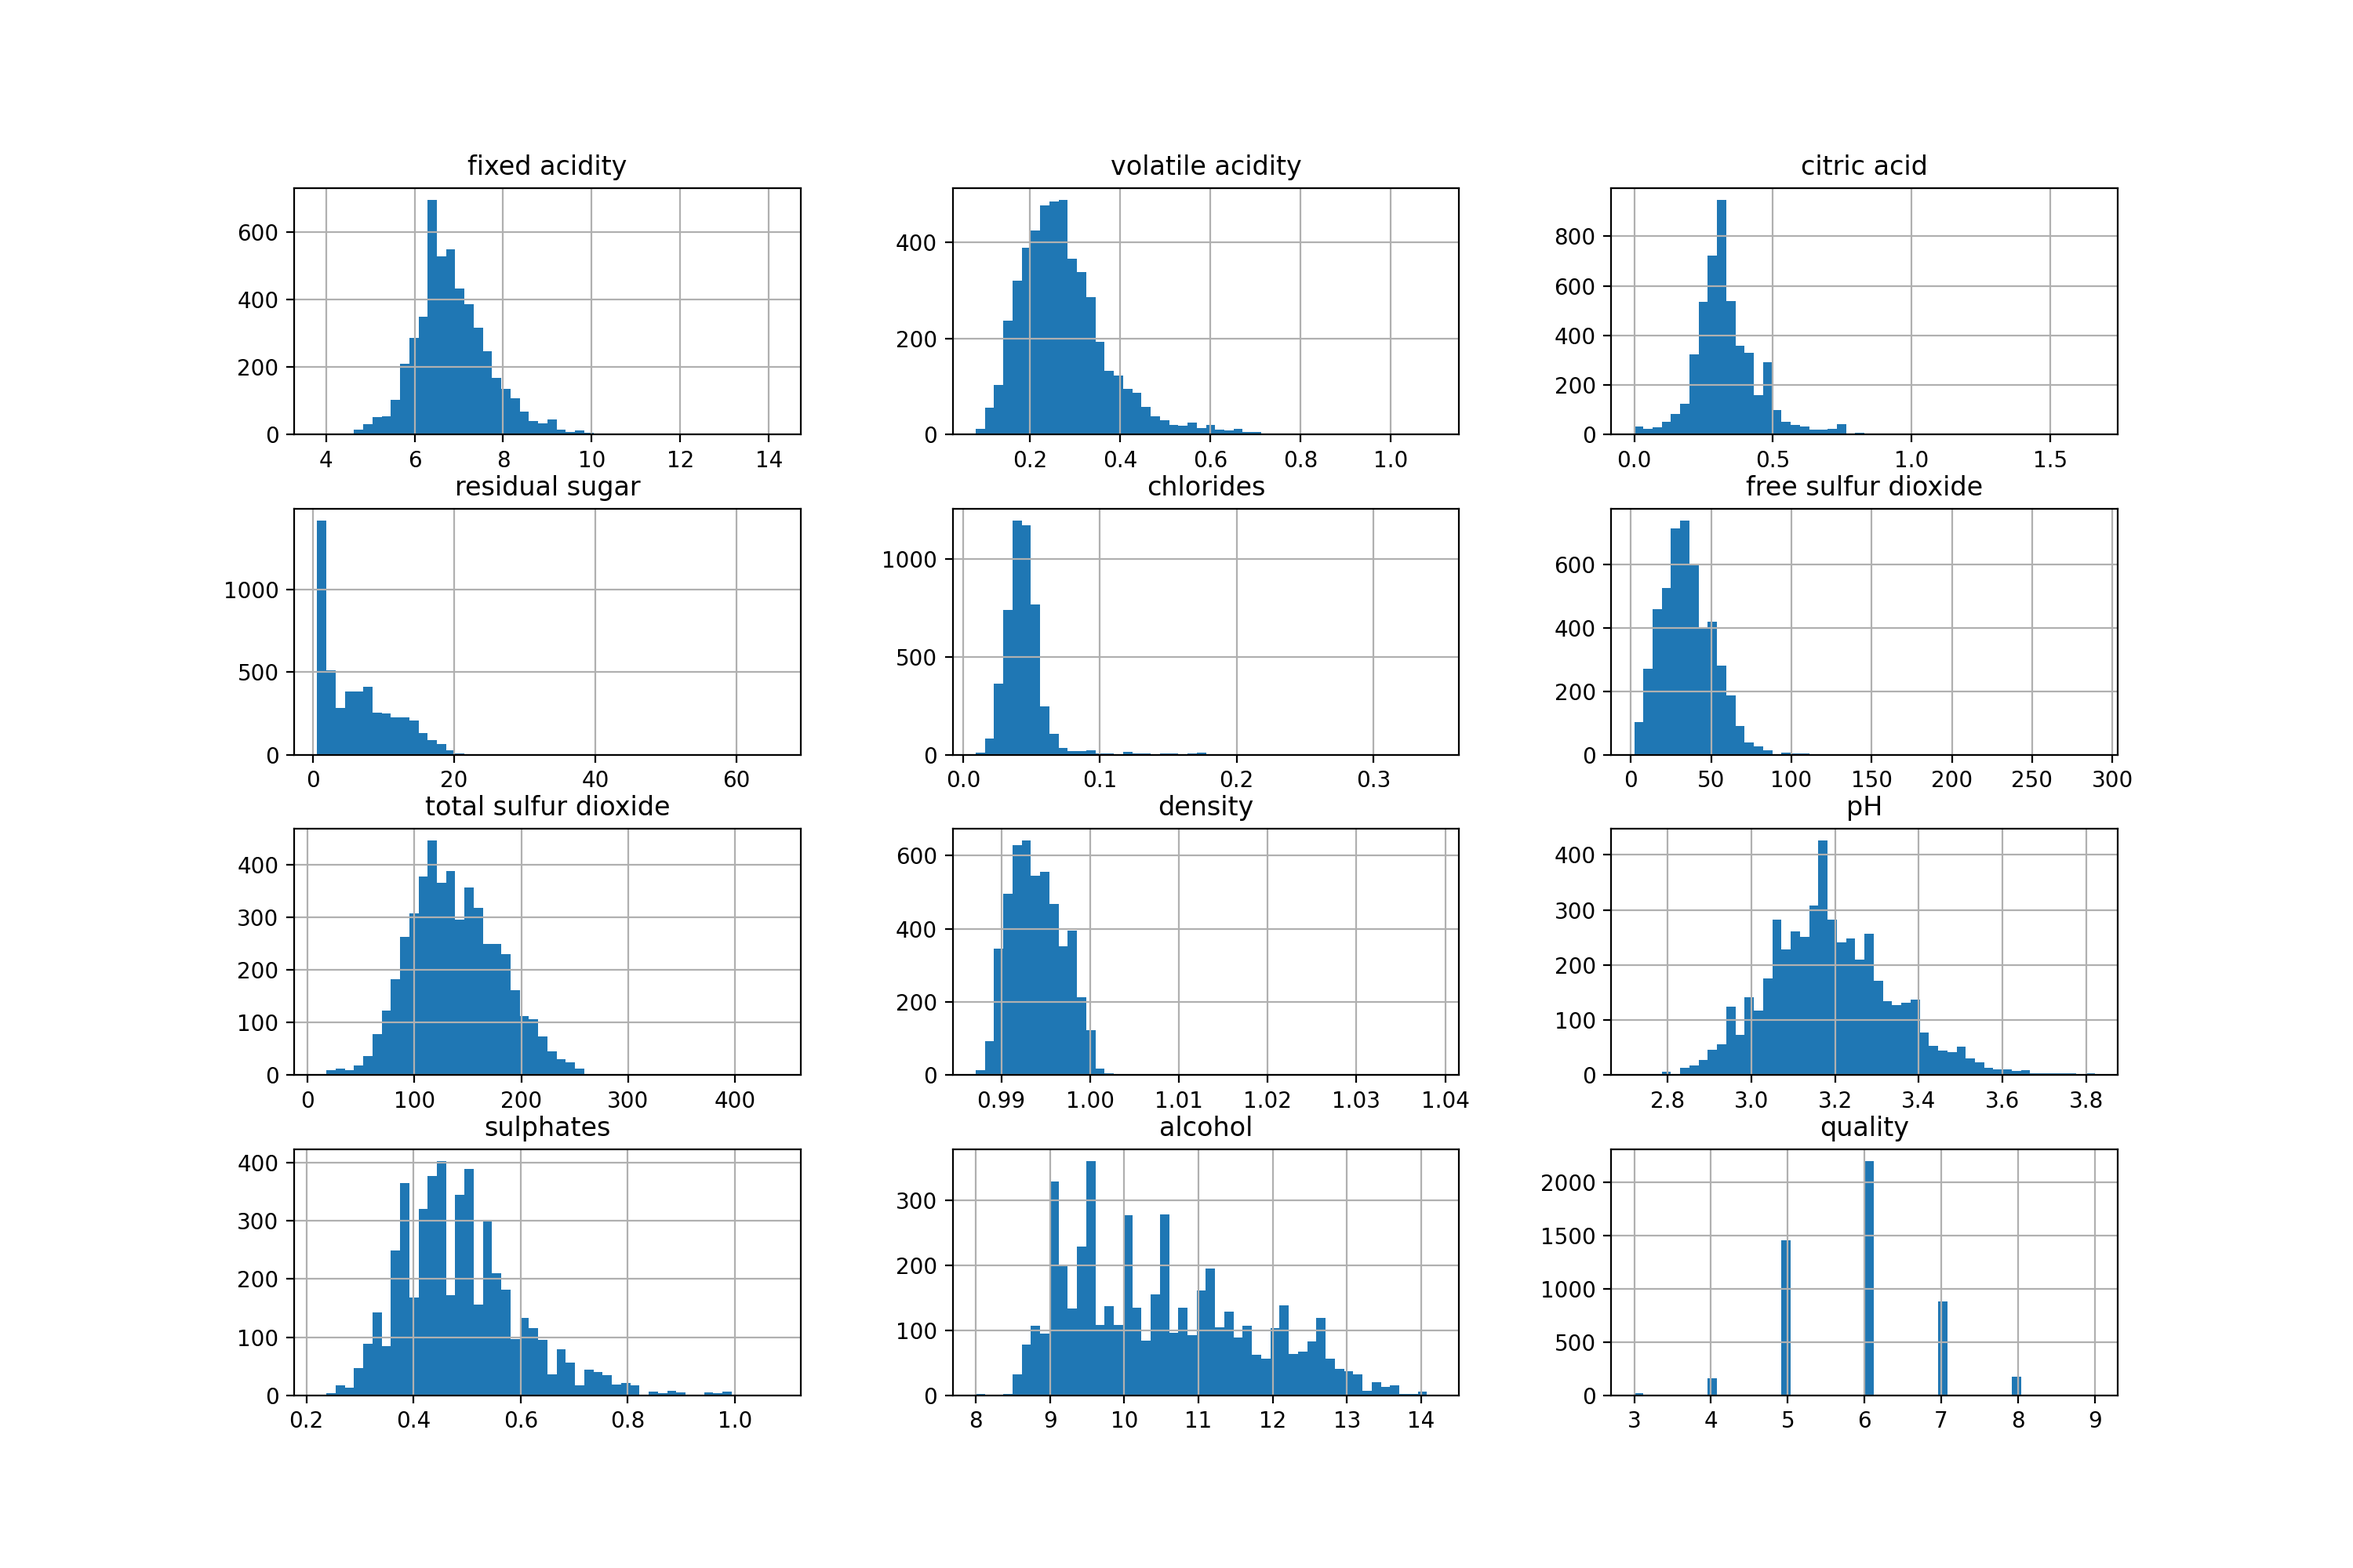
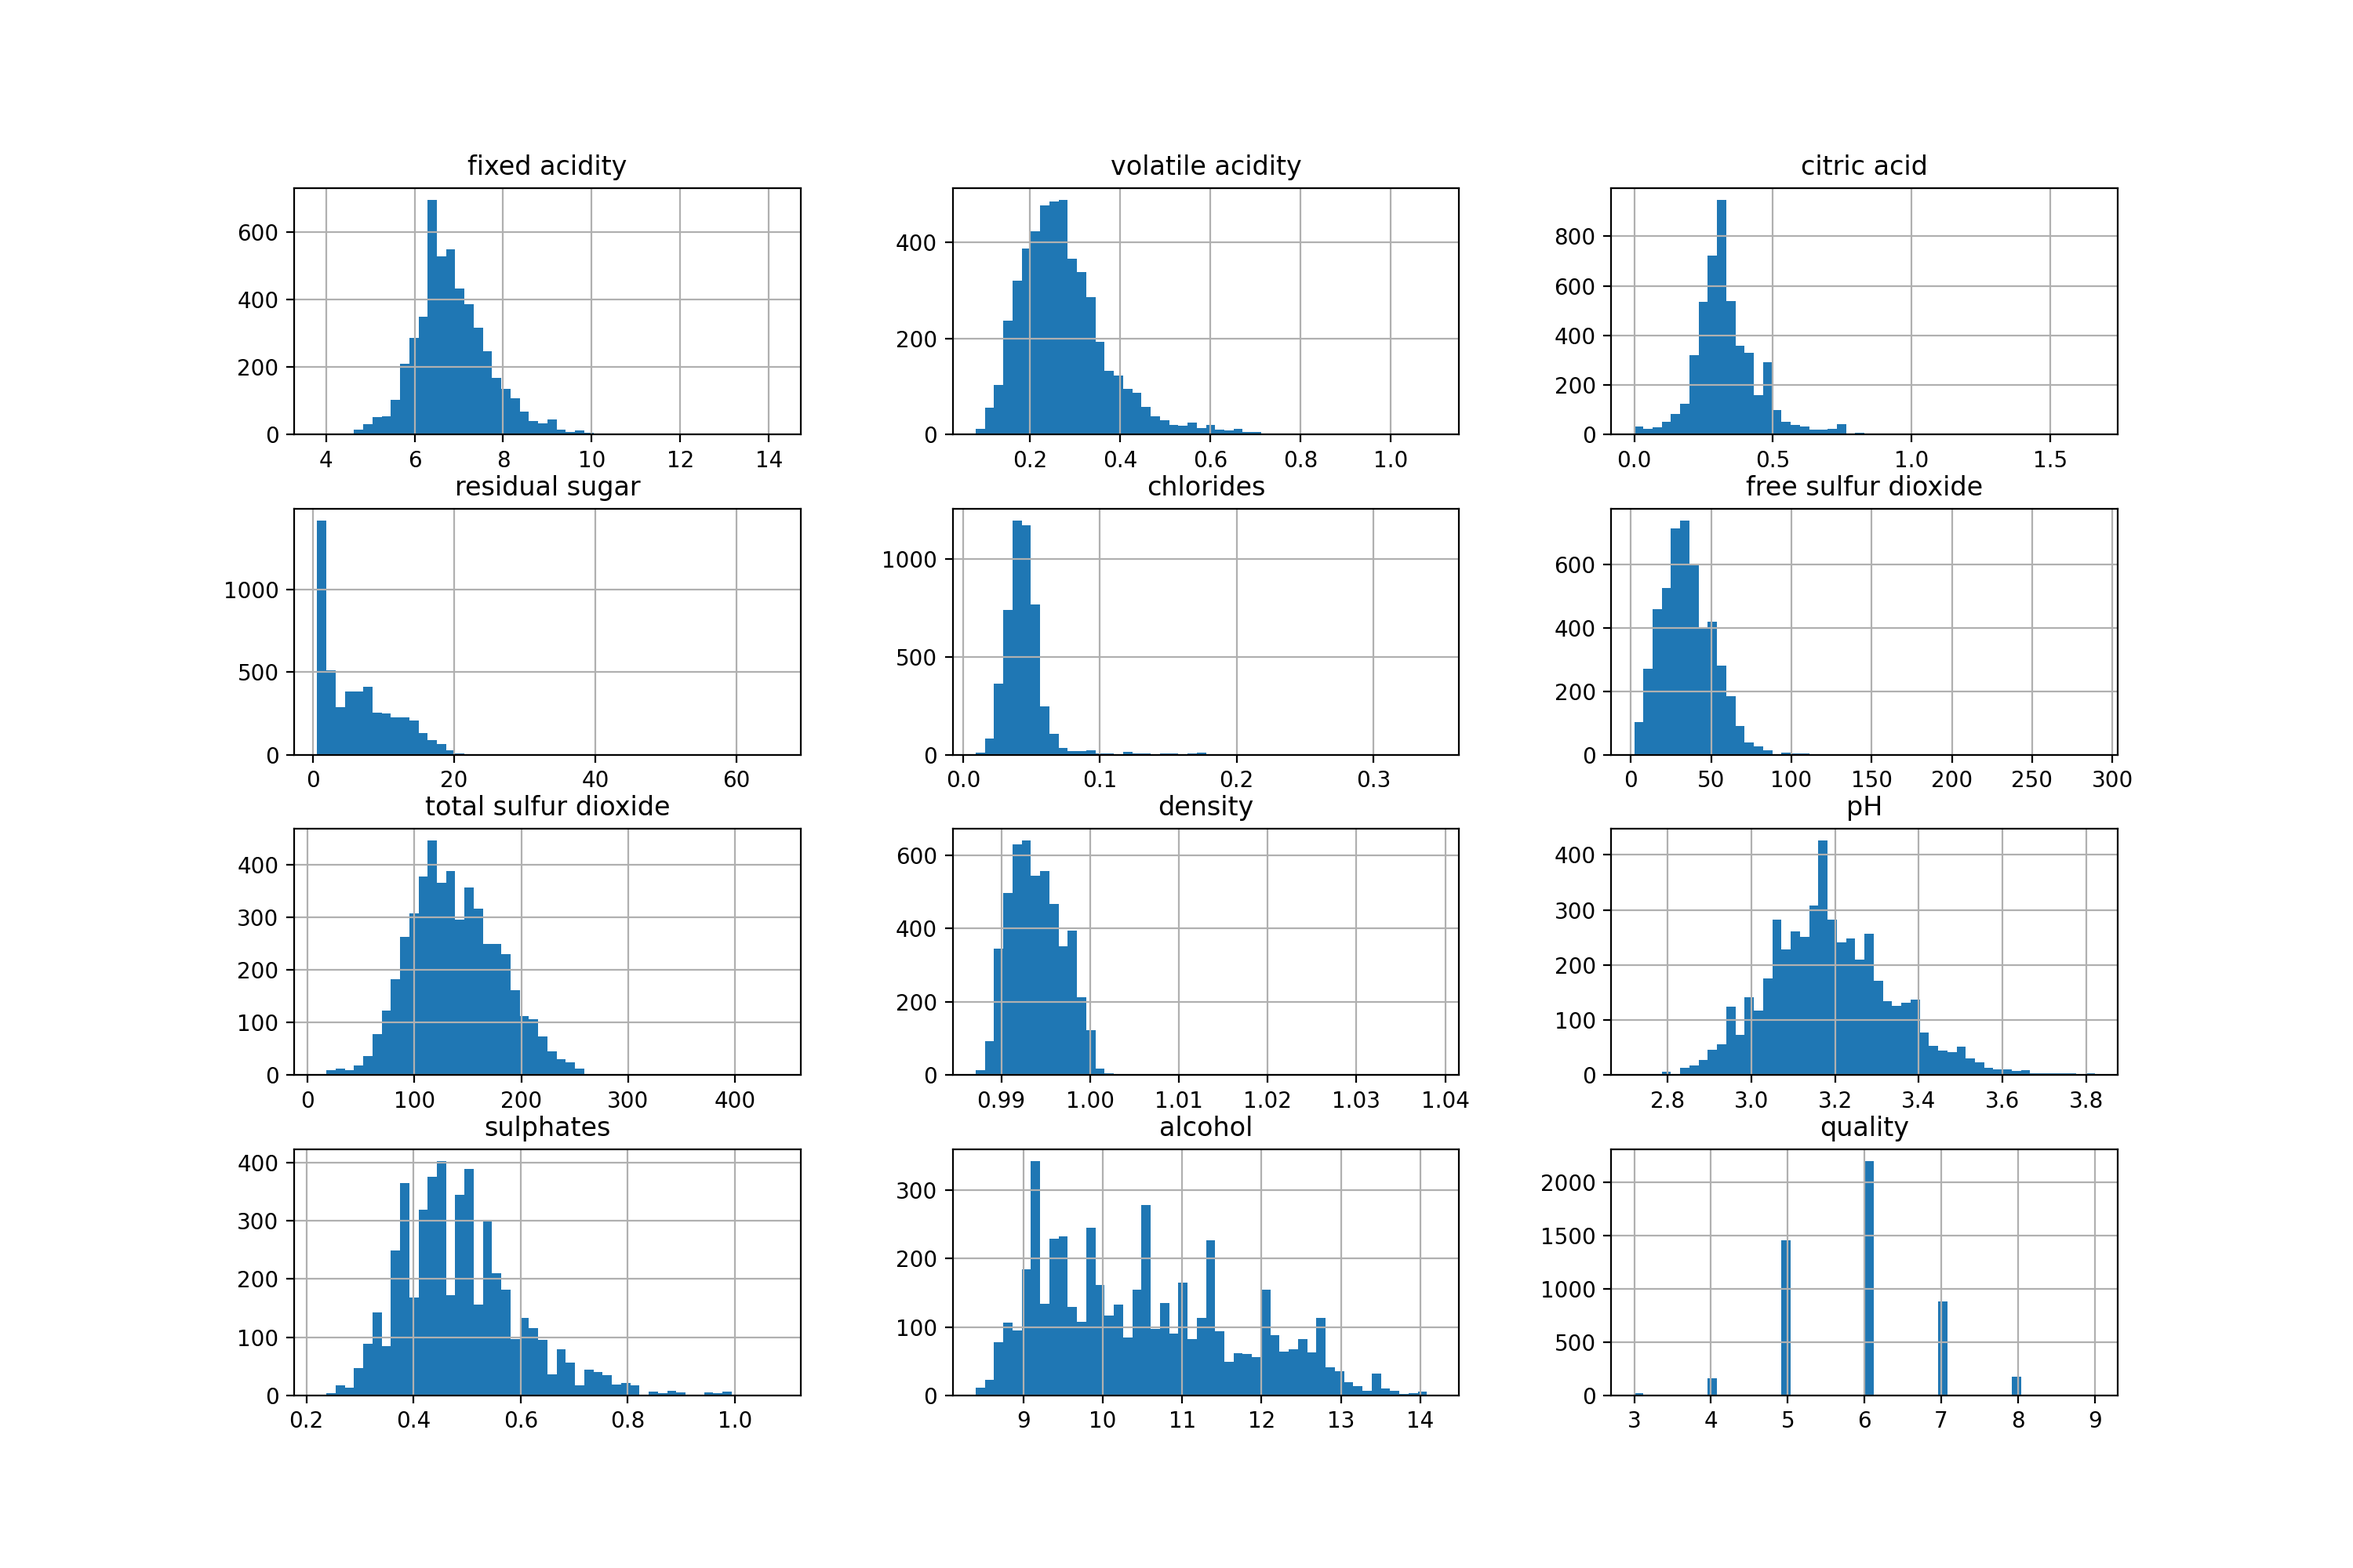
update

Changed region(s): [[0.403, 0.744, 0.589, 0.899], [0.372, 0.744, 0.403, 0.775]]

diff --git a/white_wine_quality.py b/white_wine_quality.py
@@ -72,8 +72,8 @@ save_fig("scatter_matrix_plot")
 
 # To stratify the test set data create an alcohol category atrribute 
 white_data["alcohol_cat"] = pd.cut(white_data["alcohol"],
-                               bins=[8, 9, 10, 11, 12, 13, 14, np.inf],
-                               labels=[8, 9, 10, 11, 12, 13, 14])
+                                bins=[8, 9, 10, 11, 12, 13, 14, np.inf],
+                                labels=[8, 9, 10, 11, 12, 13, 14])
 print(white_data["alcohol_cat"].value_counts()) # Print the count in each category
 
 # Split from the dataset a stratified sample to use as a test set (20%)
@@ -86,19 +86,17 @@ for train_index, test_index in split.split(white_data, white_data["alcohol_cat"]
 print(strat_test_set["alcohol_cat"].value_counts() / len(strat_test_set))
 print(white_data["alcohol_cat"].value_counts() / len(white_data))
 
-# Now the test set and train set are created drop the alcohol category from both
-#for set_ in (strat_train_set, strat_test_set):
-#    set_.drop("alcohol_cat", axis=1, inplace=True)
+# Now the test set and train set are created drop the alcoholcat from both
+for set_ in (strat_train_set, strat_test_set):
+    set_.drop("alcohol_cat", axis=1, inplace=True)
 
 ########## Prepare data for ML algorithms ##########
-#white_data = strat_train_set.drop("quality", axis=1) # Makes a copy of the original data and drops quality (ie, creates predictors)
-#white_data_labels = strat_train_set["quality"].copy() # Makes a copy and copies quality (ie, creates the labels)
+white_data = strat_train_set.drop("quality", axis=1) # Makes a copy of the original data and drops quality (ie, creates predictors)
+white_data_labels = strat_train_set["quality"].copy() # Makes a copy and copies quality (ie, creates the labels)
 
 # Use imputer to fill in NULL values
-#imputer = SimpleImputer(strategy="median")
-#imputer.fit(white_data)
-
-#print("Stats: ", imputer.statistics_)
+imputer = SimpleImputer(strategy="median")
+imputer.fit(white_data)
 
 ########## Select a training model ##########
 ########## Linear Regression ##########
@@ -122,14 +120,14 @@ print(white_data["alcohol_cat"].value_counts() / len(white_data))
 #print("Lin_Reg RMSE: ", lin_rmse)
 
 # Check the linear regression model on all of the data uing Mean Absolute Error
-#print("Lin_Reg MAE: ", lin_mae)
 #lin_mae = mean_absolute_error(white_data_labels, alcohol_predictions)
+#print("Lin_Reg MAE: ", lin_mae)
 
 # Use cross validation to further evaluate the model
-#def display_scores(scores, model):
-#    print(model, " Scores:", scores)
-#    print(model, " Mean:", scores.mean())
-#    print(model, " Standard deviation:", scores.std())
+def display_scores(scores, model):
+    print(model, " Scores:", scores)
+    print(model, " Mean:", scores.mean())
+    print(model, " Standard deviation:", scores.std())
 
 #lin_scores = cross_val_score(lin_reg, white_data, white_data_labels,
 #                             scoring="neg_mean_squared_error", cv=10)
@@ -194,43 +192,43 @@ print(white_data["alcohol_cat"].value_counts() / len(white_data))
 #display_scores(svm_rmse_scores, "SVR")
 
 ########## Fine Tune Random Forest Regressor using GridSearch ##########
-#param_grid = [
+param_grid = [
     # try 12 (3×4) combinations of hyperparameters
-#    {'n_estimators': [120, 180, 240], 'max_features': [2, 4, 6, 8]},
+    {'n_estimators': [160, 180, 200], 'max_features': [1, 2, 4, 6]},
     # then try 6 (2×3) combinations with bootstrap set as False
-#    {'bootstrap': [False], 'n_estimators': [3, 10], 'max_features': [2, 3, 4]},
-#  ]
+    {'bootstrap': [False], 'n_estimators': [3, 10], 'max_features': [2, 3, 4]},
+  ]
 
-#forest_reg = RandomForestRegressor(random_state=42)
+forest_reg = RandomForestRegressor(random_state=42)
 # train across 5 folds, that's a total of (12+6)*5=90 rounds of training 
-#grid_search = GridSearchCV(forest_reg, param_grid, cv=5,
-#                           scoring='neg_mean_squared_error',
-#                           return_train_score=True)
-#grid_search.fit(white_data, white_data_labels)
+grid_search = GridSearchCV(forest_reg, param_grid, cv=5,
+                          scoring='neg_mean_squared_error',
+                           return_train_score=True)
+grid_search.fit(white_data, white_data_labels)
 
 # Print the results
-#print("""
-#GridSearch Results: """, grid_search.best_estimator_)
+print("""
+GridSearch Results: """, grid_search.best_estimator_)
 
-#cvres = grid_search.cv_results_
-#for mean_score, params in zip(cvres["mean_test_score"], cvres["params"]):
-#    print(np.sqrt(-mean_score), params)
+cvres = grid_search.cv_results_
+for mean_score, params in zip(cvres["mean_test_score"], cvres["params"]):
+    print(np.sqrt(-mean_score), params)
 
 ########## FINAL MODEL ##########
-#final_model = grid_search.best_estimator_
+final_model = grid_search.best_estimator_
 
 ########## Evaluate the final model on the test set ##########
-#X_test = strat_test_set.drop("quality", axis=1)
-#y_test = strat_test_set["quality"].copy()
+X_test = strat_test_set.drop("quality", axis=1)
+y_test = strat_test_set["quality"].copy()
 
-#final_predictions = final_model.predict(X_test)
+final_predictions = final_model.predict(X_test)
 
-#final_mse = mean_squared_error(y_test, final_predictions)
-#final_rmse = np.sqrt(final_mse)
+final_mse = mean_squared_error(y_test, final_predictions)
+final_rmse = np.sqrt(final_mse)
 
-#print("""
-#Final MSE: """, final_mse)
-#print("Final RMSE: ", final_rmse)
+print("""
+Final MSE: """, final_mse)
+print("Final RMSE: ", final_rmse)
 
 # Calculate the range of a result that has 95% confidence
 #confidence = 0.95
@@ -240,8 +238,8 @@ print(white_data["alcohol_cat"].value_counts() / len(white_data))
 #                        scale=stats.sem(squared_errors))))
 
 ########## Use the final model to predict the quality ##########
-#X_new = [[12.2, None, 0.2, 2.1, 0.081, 14.0, 58.0, 0.999, 3.2, 0.55, 12]] # A new set of data that is going to be used to predict the quality
-#X_imputed = imputer.transform(X_new) # Transform the imputed value (median) into the new data with NULL(None) value
-#print("X_imputed: ", X_imputed) # A check to make sure the imputed value was added to the new data
-#X_new_prediction = final_model.predict(X_imputed) # Perform the prediction
-#print("Prediction Quality = ", X_new_prediction ) # Print the prediction
+X_new = [[12.2, None, 0.2, 2.1, 0.081, 14.0, 58.0, 0.999, 3.2, 0.55, 12]] # A new set of data that is going to be used to predict the quality
+X_imputed = imputer.transform(X_new) # Transform the imputed value (median) into the new data with NULL(None) value
+print("X_imputed: ", X_imputed) # A check to make sure the imputed value was added to the new data
+X_new_prediction = final_model.predict(X_imputed) # Perform the prediction
+print("Prediction Quality = ", X_new_prediction ) # Print the prediction
